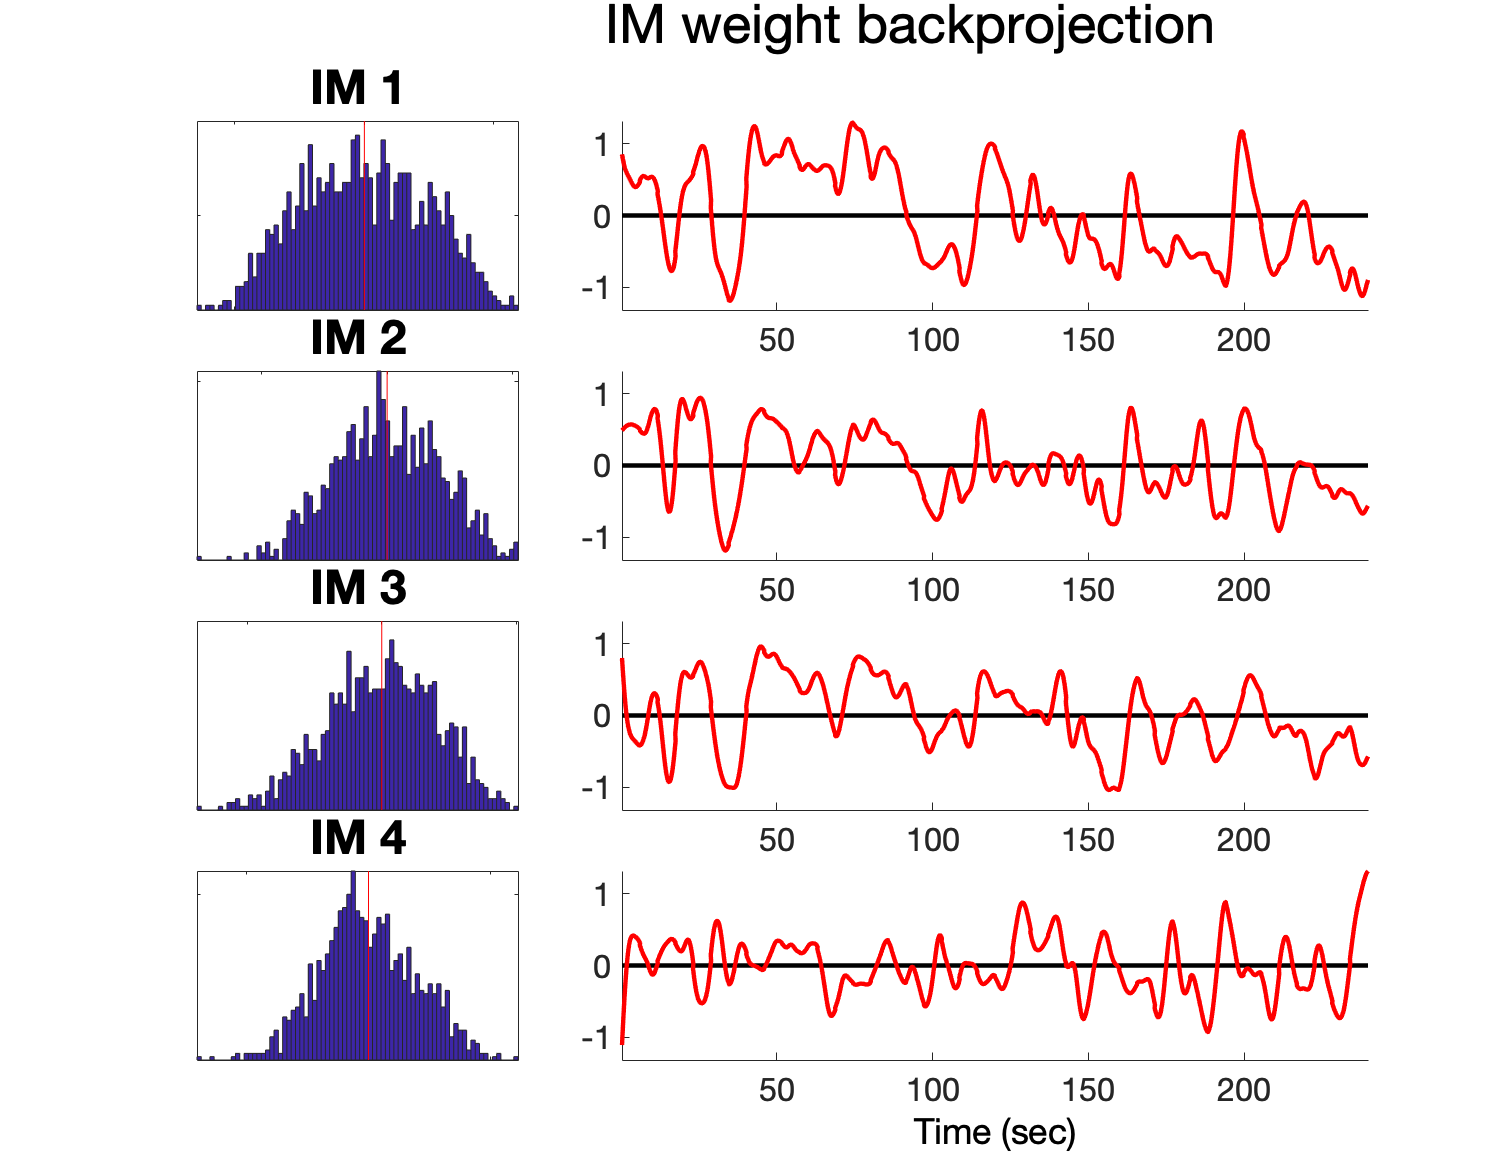
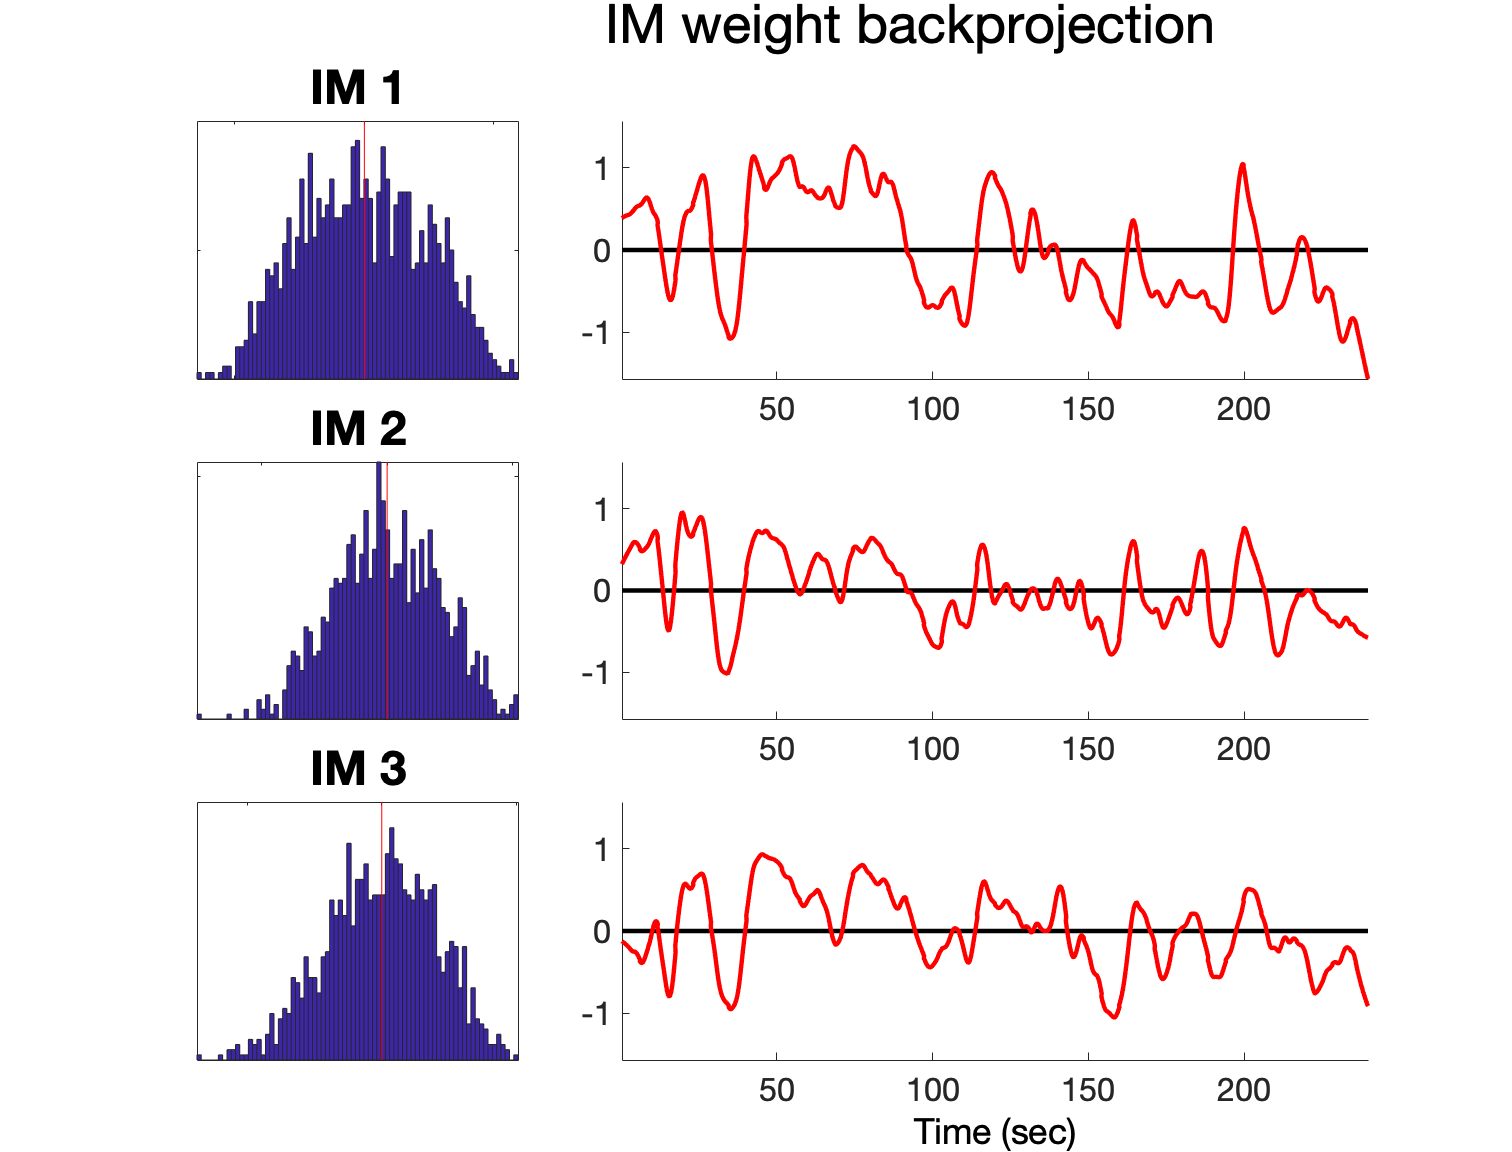
bug fixes, updated documentation

diff --git a/plotIMtimecourse.m b/plotIMtimecourse.m
@@ -52,6 +52,7 @@ g = finputcheck(varargin, {'comps'     'integer'   []             []; ...
     'frqlim'        'real'       []             []; ...
     'plotcond'       'string'    {'on' 'off'}                       'off';...
     'smoothing'      'integer'   []             [40];...
+    'method'         'string'    {'movmean' 'gaussian' 'lowess' 'rlowess'}  'rlowess';... 
     'plotICtf'       'string'    {'on' 'off'}                       'off';...
     'plotPCtf'       'string'    {'on' 'off'}                       'off';...
     'plotIMtf'       'string'    {'on' 'off'}                       'off';...
@@ -72,7 +73,7 @@ if isempty(g.factors)
     g.factors = 1:IMA.npcs;
 end
 
-if strcmp(g.plotcond, 'on') || length(IMA.timepntCond) > 1;
+if strcmp(g.plotcond, 'on') || iscell(IMA.timepntCond);
     dataport = IMA.timepntCond;
 else
     dataport = {IMA.timepntCond};
@@ -429,7 +430,7 @@ if strcmp(g.plotIMtime, 'on');
         %         backproj = filtfilt(bb,aa,(double(backproj)));
         plotdataIM = [];
         for lux = 1:length(dataport);
-            plotdataIM = [plotdataIM smoothdata(double(backproj(dataport{lux})),'movmean',g.smoothing)']; % ,'movmedian',20
+            plotdataIM = [plotdataIM smoothdata(double(backproj(dataport{lux})),g.method,g.smoothing)']; % ,'movmedian',20
         end
         plotdatascale = [plotdatascale plotdataIM]; % select frequency range to plot
     end
@@ -464,7 +465,7 @@ if strcmp(g.plotIMtime, 'on');
         sbplot(row,col,[pl pl+1]);
         for lux = 1:length(dataport);
             
-            plotdataIM = smoothdata(double(backproj(dataport{lux})),'movmean' ,g.smoothing); % ,'movmedian',20
+            plotdataIM = smoothdata(double(backproj(dataport{lux})),g.method ,g.smoothing); % ,'movmedian',20
             line([times(dataport{lux}(1)),times(dataport{end}(end))],[0,0], 'Color','k', 'LineWidth', lnwdth); hold on
             if strcmp(g.plotcond, 'on') % add separating vertical lines between conditions
                 line([times(dataport{lux}(end)),times(dataport{lux}(end))],[min(backproj)-1 max(backproj)+1], 'Color','k', 'LineWidth', lnwdth); hold on

diff --git a/pop_plotIMtimecourse.m b/pop_plotIMtimecourse.m
@@ -34,8 +34,8 @@
 %                      the independent components for a subject 
 % factors - [vector] IMs to plot - if empty plots all the IMs for a subject% frqlim - [min max] frequency limits for plotting
 % frqlim - [min max] frequency limits for plotting
-% smoothing - [number between 0 and 1] factor to smooth IM timecourses. A
-%              number more close to 1 means less smoothing
+% smoothing - [integer] how many timepoints to use for moving average for
+%                        smoothing. A higher number means more smoothing. default 40
 % plotICtf  -  [string]  {'on' 'off'} plot IC time-frequency decomposition, default 'off'                    
 % plotPCtf  -   [string] {'on' 'off'}  plot PC time-frequency backprojection, default 'off'                      
 % plotIMtf  -    [string] {'on' 'off'}  plot IM time-frequency backprojection, default 'off'                      
@@ -54,7 +54,7 @@ end
 g = finputcheck(varargin, {'comps'          'integer'   []             []; ...
                            'factors'        'integer'   []             []; ...
                            'frqlim'         'real'      []             []; ...
-                           'smoothing'      'real'   []             [0.5];...
+                           'smoothing'      'real'   []             [40];...
                            'plotICtf'       'string'    {'on' 'off'}   'on';... 
                            'plotPCtf'       'string'    {'on' 'off'}   'on';...
                            'plotIMtf'       'string'    {'on' 'off'}   'on';...

diff --git a/README.md b/README.md
@@ -56,7 +56,13 @@ From the resulting window (above right) we can specify:
 
 ## Visualizing IMAT results
 
-There are three main plotting function for visualizing IMAT results.
+There are three main plotting functions for visualizing IMAT results.
+
+1. Superimposed components
+2. Spectral envelope
+3. Time courses
+
+**1. Superimposed Components**  
 
 To visualize the IM decomposition launch **Tools > Decompose spectograms by IMA > Plot IMA results > Superimposed Components**
 
@@ -64,12 +70,194 @@ To visualize the IM decomposition launch **Tools > Decompose spectograms by IMA 
 
 <img src="./Docs/figs/plotspecdecomp.png" width="1000"> 
 
+In the resulting window (above right) we can specify: 
+
+1. The type of plot from the drop down menu   
+    - IM mode decomposition   
+    - Superimposed IC modes  
+    - Superimposed IM modes    
+2. The frequency range to plot (must be within the frequencies for which IMA was    computed)
+3. The ICs and IMs to plot
+
+
+**IM mode decomposition** allows to plot spectral templates separately for all IMs and ICs 
+
 
 <img src="./Docs/figs/IMA_decomposition.png" width="2000"> 
 
+**Superimposed IC modes** allows to plot superimposed spectral templates of ICs for each IM  
+
 <img src="./Docs/figs/SuperimposedICmodes.png" width="1000"> 
 
+**Superimposed IM modes** allows to plot superimposed spectral templates of IMs for each IC
+
 <img src="./Docs/figs/SuperimposedIMmodes.png" width="1000"> 
+
+
+**2. Spectral envelope**
+
+To visualize the contribution of IMs on the mean log spectrum of an IC launch **Tools > Decompose spectograms by IMA > Plot IMA results > Spectral envelope**
+
+<img src="./Docs/figs/plotspecenv.png" width="1000">
+
+In the resulting window (above right) we can specify: 
+
+1. The type of plot from the drop down menu   
+    - Full envelope: plots the 1st and 99th percentiles of the IM spectral variation
+    - Upper envelope: plots the 99th percentile of the IM spectral variation
+    - Lower envelope: plots the 1st percentile of the IM spectral variation  
+2. The frequency range to plot (must be within the frequencies for which IMA was    computed)
+3. The ICs and IMs to plot
+
+Here is an example for plotting the **Full envelope** of IMs. The IC mean log power spectrum is shown as a black trace. Outer light grey limits represent the 1st and 99th percentiles of IC spectral variation. Dark grey areas represent the 1st and 99th percentiles of the PCA-reduced spectral data used in the IMA analysis.
+
+
+<img src="./Docs/figs/plotenv_EC.png" width="600">
+
+**3. Time courses**
+
+To plot the activation of IMs over time launch **Tools > Decompose spectograms by IMA > Plot IMA results > Time courses**
+
+<img src="./Docs/figs/plottimecourse.png" width="1000">
+
+In the resulting window (above right) we can specify: 
+
+1. The type of plot from the drop down menu   
+    - IC spectogram   
+    - Summed IM backprojection  
+    - Combined IC-IM spectogram
+    - IM timecourse    
+2. The frequency range to plot (must be within the frequencies for which IMA was    computed)
+3. The ICs and IMs to plot
+
+**IC spectogram** allows to plot the normalized (mean spectrum removed) IC spectograms.
+ 
+<img src="./Docs/figs/ICspectogram.png" width="500">
+
+**Summed IM backprojection** allows to plot the PCA reduced normalized (mean spectrum removed) IC spectograms on which IMA was computed.
+ 
+<img src="./Docs/figs/summedICbackprojection.png" width="500">
+
+**Combined IC-IM spectogram** allows to plot the backprojection of single IM spectral weights over time for single ICs
+
+<img src="./Docs/figs/IMspectralweights.png" width="500">
+
+**IM timecourse** allows to plot the activation of IMs over time
+
+<img src="./Docs/figs/IMweightbackprojection.png" width="500">
+
+
+## Multiple conditions and group analysis 
+
+## Running IMAT 
+
+Before running IMAT on multiple conditions or for group analysis you need to build a STUDY in eeglab. You can find information on how to create a STUDY in the [eeglab wiki] (https://sccn.ucsd.edu/wiki/Chapter_02:_STUDY_Creation). For multiple conditions you will need to create a separate .set file for each condition. E.g. if you want to run IMA on EEG data that has two conditions: eyes open and eyes closed you need to create one EEG file for eyes open and one EEG file for eyes closed before creating the STUDY. 
+
+Before running IMAT, start EEGLAB and load the STUDY set.
+
+   Here we will use the sample STUDY set,  *.../eeglab/sample\_data/eeglab\_data\_epochs\_ica.set*.
+
+
+To run IMAT on the loaded STUDY, launch the Run IMA (*pop\_runIMA_study*) window, either by typing *pop\_runIMA_study* on the MATLAB command line or by calling it from the EEGLAB menu by selecting **STUDY > STUDY IMA > Run STUDY IMA**,  as highlighted in the figure below. This will run a separate IMA for each subject in the study. A joint IMA is automatically computed over all the conditions of each single subject in the STUDY.
+
+<img src="./Docs/figs/runSTUDYIMA.png" width="1000"> 
+
+From the resulting window (above right) we can specify:
+
+1. We can choose to use IC Label to automatically select categories of ICs (**IC Label tags**). IMAT allows you to set individual thresholds for different categories of ICs for selecting ICs with IC Label. Otherwise IMAt will use the ICs previously specified when the STUDY was created.
+2. Which frequency reange to compute IMA on (**Freq. limits (Hz)**) 
+3. The frequency scale (**Freq scale**) linear of log scale 
+4. A factor to regulate dimensionality reduction on the time windows of the spectral data with PCA before ICA (**pcfac**) - the smaller pcfac, the more dimensions will be retained *ndims = (freqsxICs)/pcfac* where *freqs* is the number of estimated frequencies and *ICs* is the number of ICs (default is 7)
+5. Other IMA options (**pop\_runima_study options**) – e.g., which ICA algorithm to use   (see *pop_runima_study* help for more details)
+
+
+## Visualizing IMAT results for single subjects in the STUDY and multiple conditions
+
+There are three main plotting functions for visualizing IMAT results for single subjects and multiple conditions in the STUDY. These functions are very similar to the single subject IMAT visualizations discussed above.
+
+1. Superimposed components
+2. Spectral envelope
+3. Time courses
+
+
+**1. Superimposed Components**  
+
+To visualize the IM decomposition for single subjects in the study launch **STUDY > STUDY IMA > Plot IMA results > Superimposed Components**
+
+**Plot IM decomposition**  (*pop_plotspecdecomp_study*) 
+
+<img src="./Docs/figs/plotIMdecompSTUDY.png" width="1000"> 
+
+In the resulting window (above right) we can specify: 
+
+1. The subject for which to plot the IM decomposition
+2. The type of plot from the drop down menu   
+    - IM mode decomposition   
+    - Superimposed IC modes  
+    - Superimposed IM modes    
+3. The frequency range to plot (must be within the frequencies for which IMA was    computed)
+4. The ICs and IMs to plot
+
+The type of plots are the same as for single subjects visualizations, please refer to the section above for more information. 
+
+**2. Spectral envelope**
+
+To visualize the contribution of IMs on the mean log spectrum of an IC for a single subject launch **STUDY > STUDY IMA > Plot IMA results > Spectral envelope**
+
+<img src="./Docs/figs/envSTUDY.png" width="1000">
+
+In the resulting window (above right) we can specify: 
+
+1. The subject for which to plot the spectral envelope
+2. The type of plot from the drop down menu   
+    - Full envelope: plots the 1st and 99th percentiles of the IM spectral variation
+    - Upper envelope: plots the 99th percentile of the IM spectral variation
+    - Lower envelope: plots the 1st percentile of the IM spectral variation  
+3. The frequency range to plot (must be within the frequencies for which IMA was    computed)
+4. The ICs and IMs to plot
+
+The function is automatically plotting separate spectral loadings for each condition. Here is an example for plotting the **Full envelope** of IMs for an eyes open and eyes closed condition separately. The IC mean log power spectrum is shown as a black trace. Outer light grey limits represent the 1st and 99th percentiles of IC spectral variation. Dark grey areas represent the 1st and 99th percentiles of the PCA-reduced spectral data used in the IMA analysis.
+
+<img src="./Docs/figs/envECSTUDY.png" width="500">
+
+<img src="./Docs/figs/envEOSTUDY.png" width="500">
+
+**3. Time courses**
+
+To plot the activation of IMs over time for a single subject launch **STUDY > STUDY IMA > Plot IMA results > Time courses**
+
+<img src="./Docs/figs/timecourseSTUDY.png" width="1000">
+
+In the resulting window (above right) we can specify: 
+
+1. The subject for which to plot the spectral envelope
+2. The type of plot from the drop down menu   
+    - IC spectogram   
+    - Summed IM backprojection  
+    - Combined IC-IM spectogram
+    - IM timecourse    
+3. The frequency range to plot (must be within the frequencies for which IMA was    computed)
+4. The ICs and IMs to plot
+
+The function automatically plots a black vertical line at the timepoint of transition between conditions
+
+**IC spectogram** allows to plot the normalized (mean spectrum removed) IC spectograms.
+ 
+<img src="./Docs/figs/ICspectogramSTUDY.png" width="500">
+
+**Summed IM backprojection** allows to plot the PCA reduced normalized (mean spectrum removed) IC spectograms on which IMA was computed.
+ 
+<img src="./Docs/figs/IMspectogramSTUDY.png" width="500">
+
+**Combined IC-IM spectogram** allows to plot the backprojection of single IM spectral weights over time for single ICs
+
+<img src="./Docs/figs/ICIMspectogramSTUDY.png" width="500">
+
+**IM timecourse** allows to plot the activation of IMs over time, visualizing differences between condition
+
+<img src="./Docs/figs/IMtimecourseSTUDY.png" width="500">
+
+## Clustering IMs
 
 ## Running and visualizing IMAT from the MATLAB command line
 Running IMAT, can also be performed from the MATLAB command line or by a MATLAB script. 
